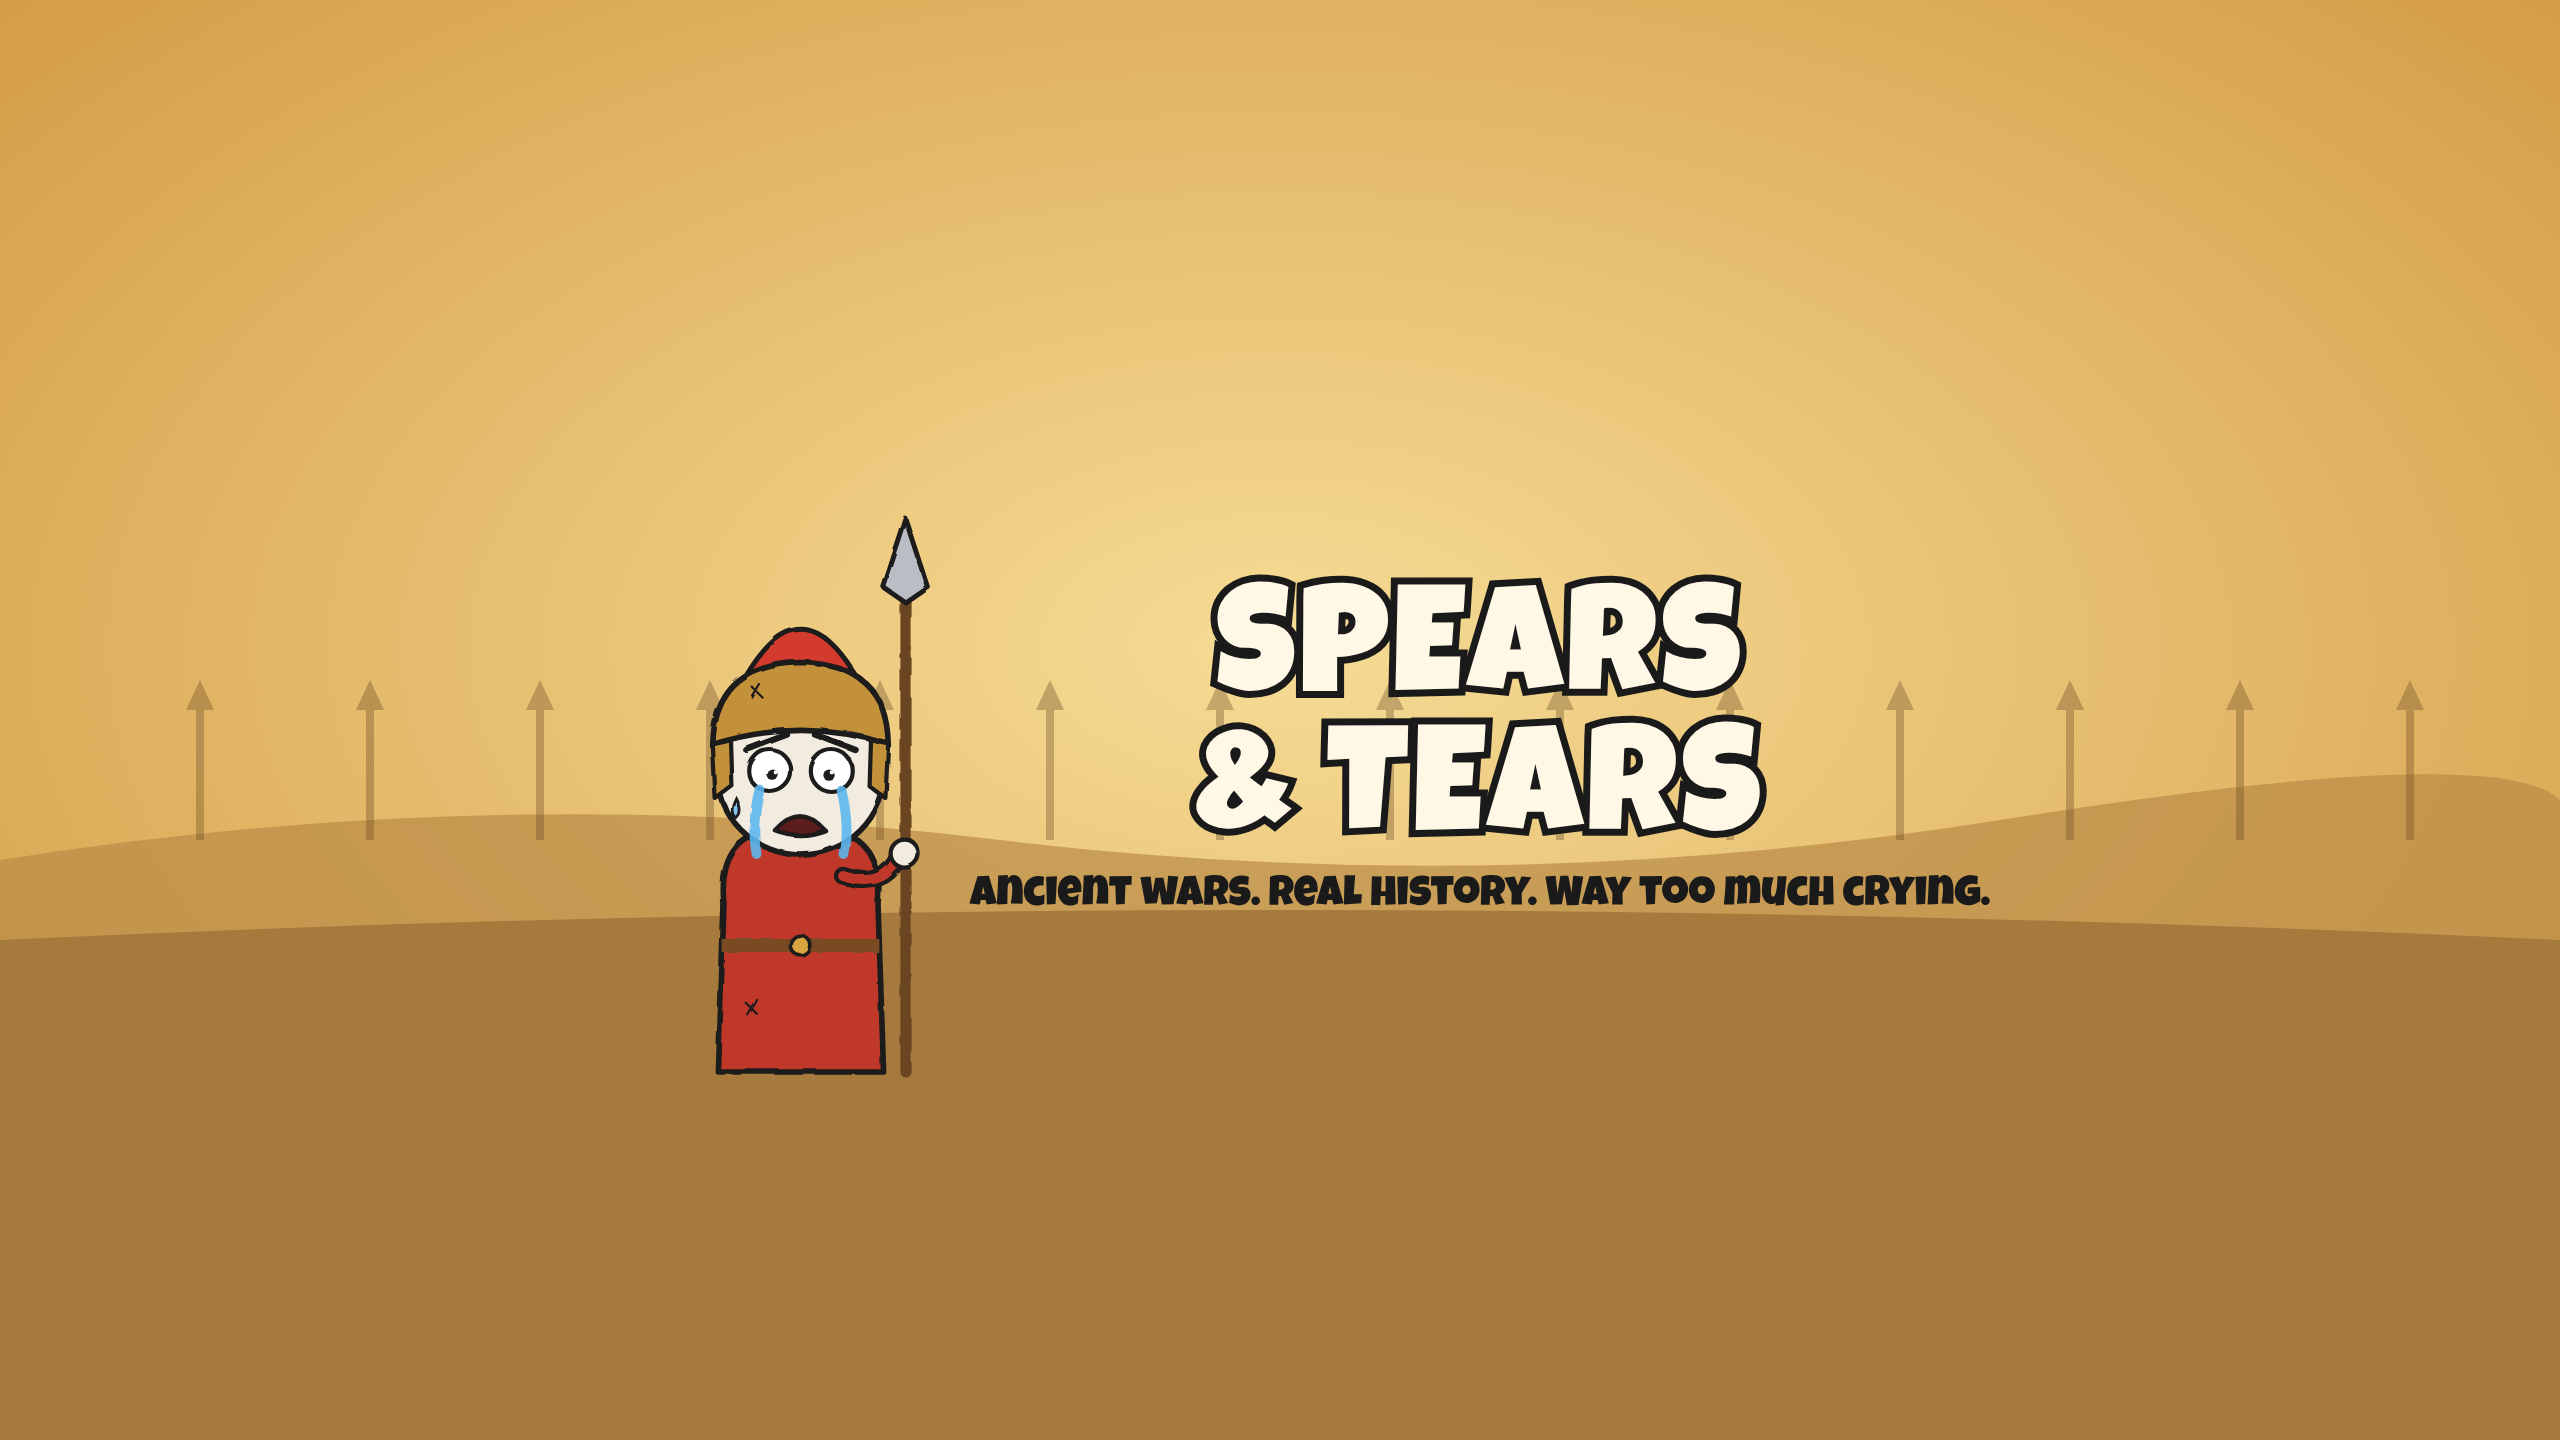
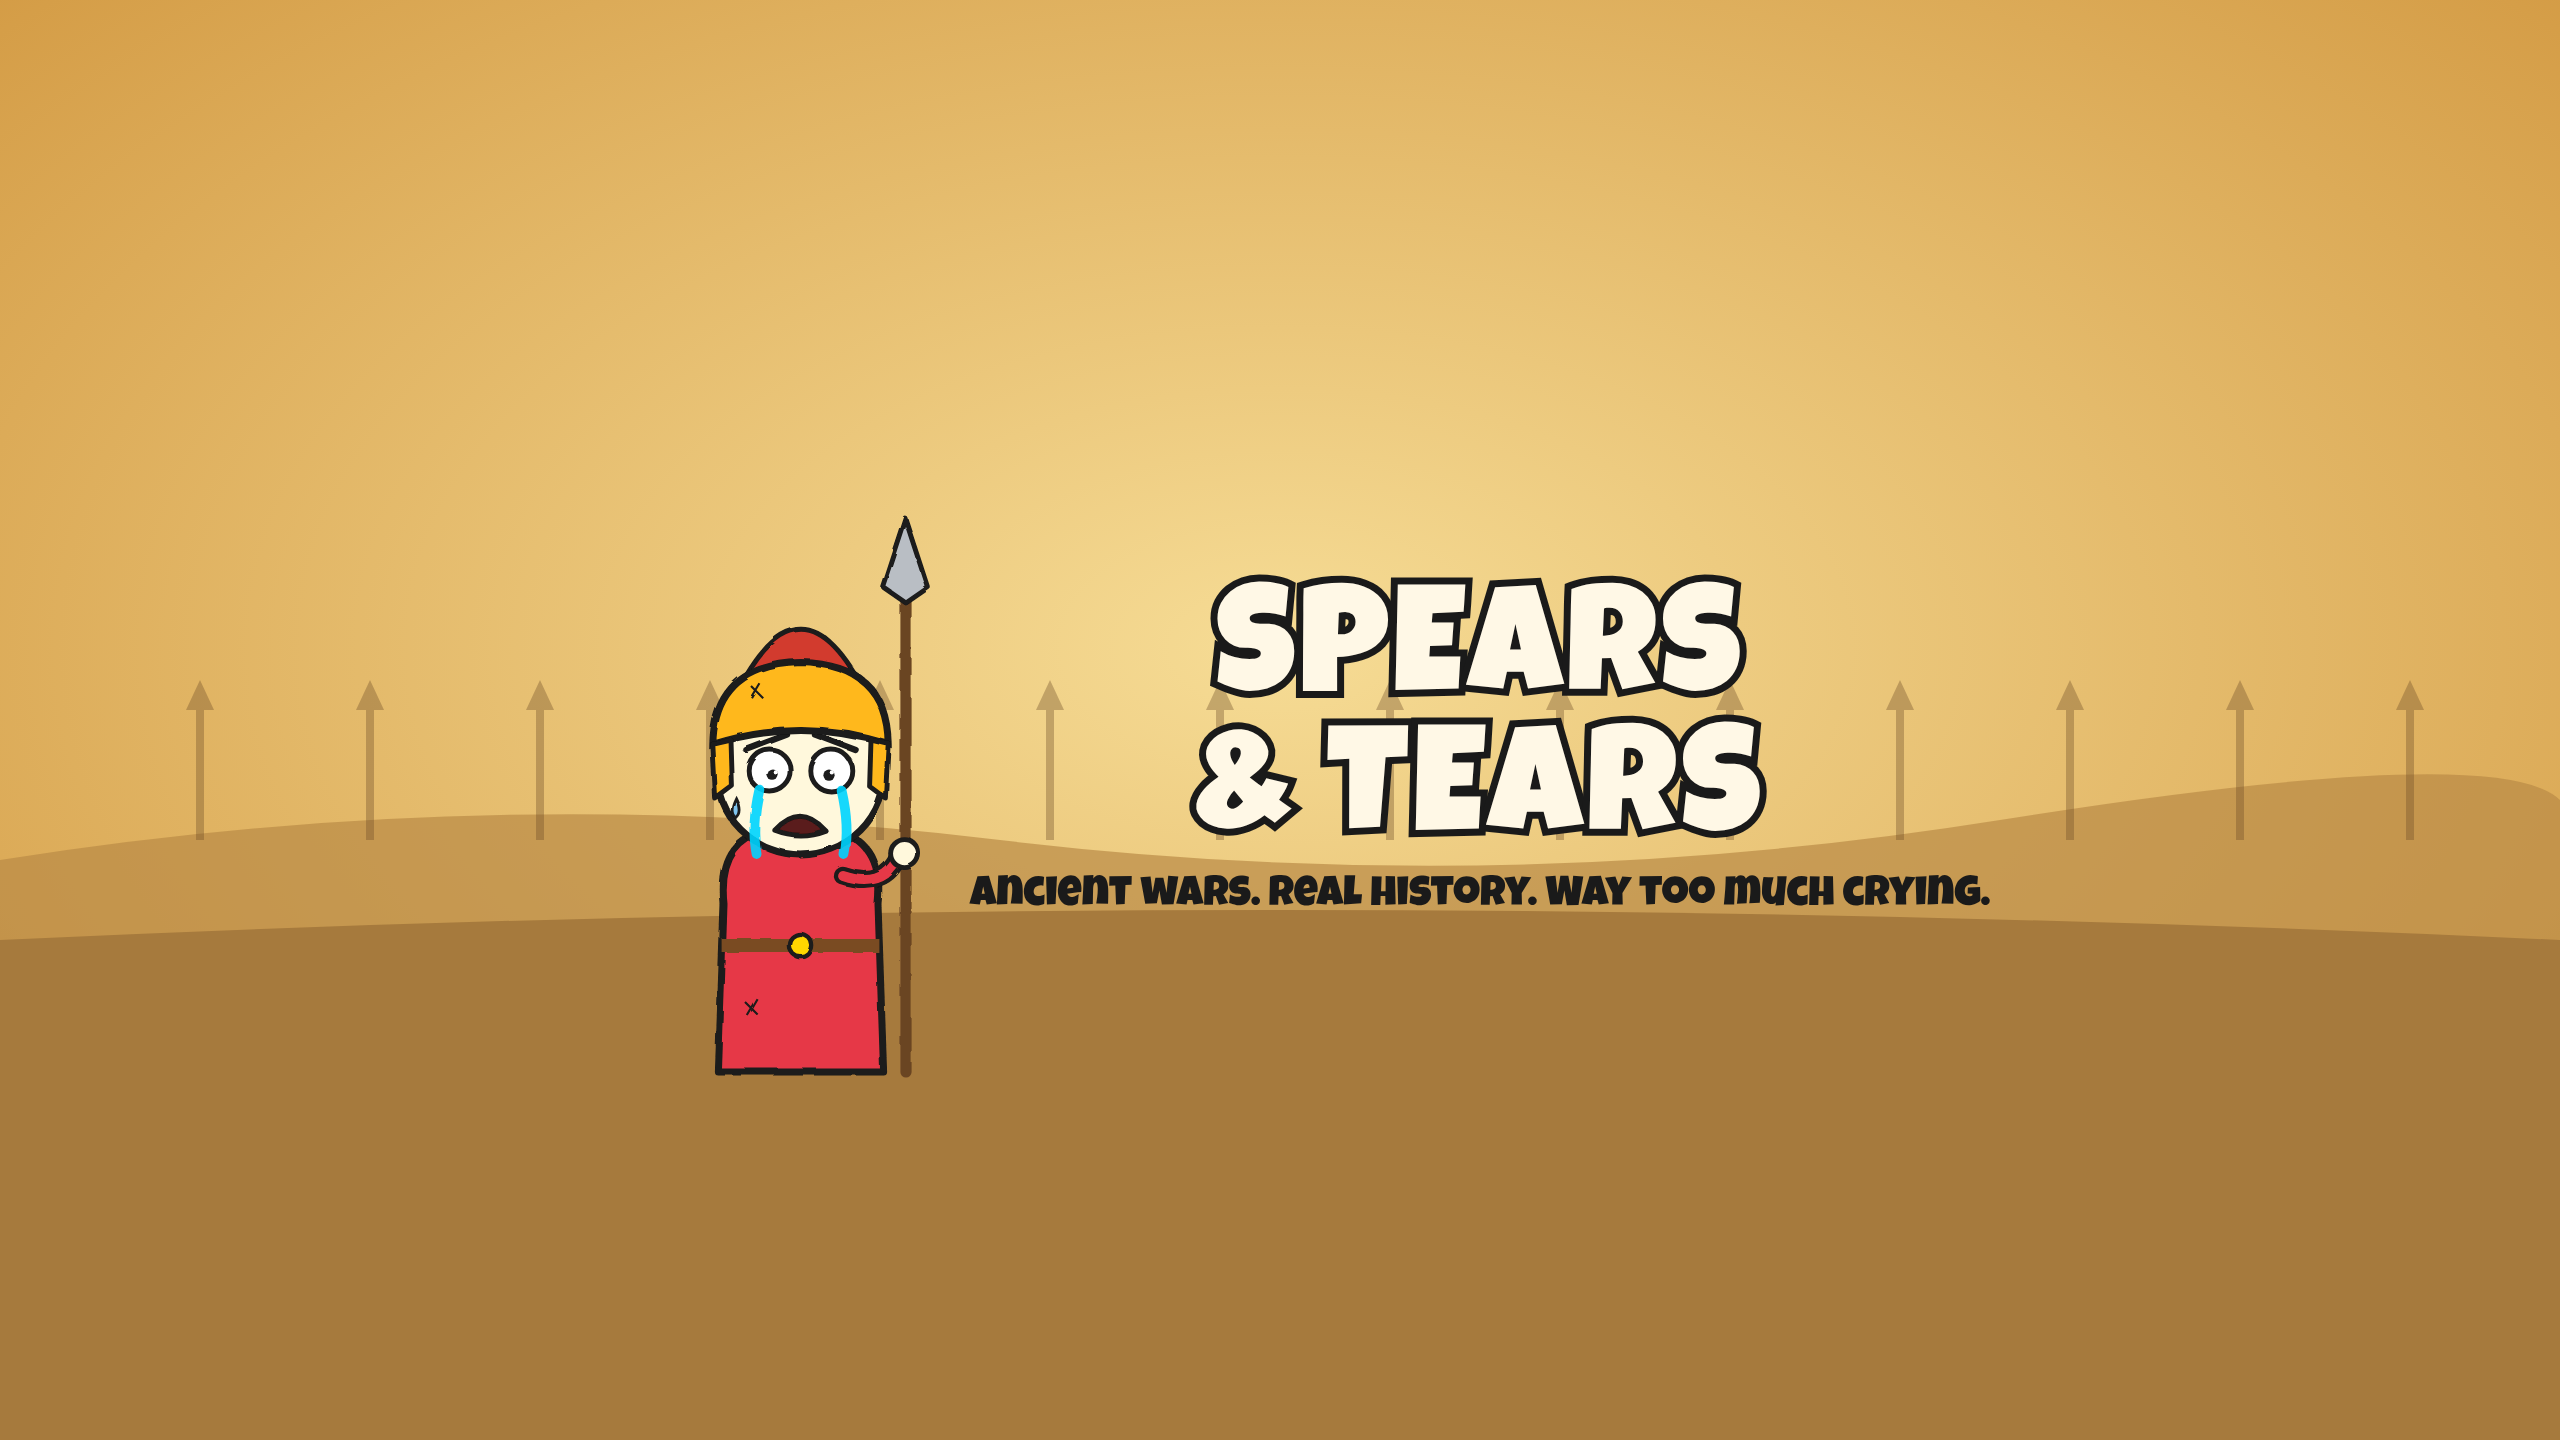
Commit updated production plan based on Hussain Ahn analysis
Major changes:
- Video length: 9min → 22min (follow proven format)
- Color palette: bold & vibrant (increased saturation)
- Map: living element, not just one scene
- Character depth: repeated appearances, exaggerated expressions
- Timeline: 1-2 weeks for episode 1

Claude-Session: https://claude.ai/code/session_01DuWpjDCBeYCSni9ZgYZmE6

Changed region(s): [[0.2812, 0.4375, 0.3438, 0.75]]

diff --git a/UPDATED_PLAN.md b/UPDATED_PLAN.md
@@ -1,0 +1,59 @@
+# ✅ Spears & Tears — Updated Production Plan
+
+بناءً على دراسة قناة @HussainAHN الناجحة (3.19M subscribers)
+
+## التعديلات الرئيسية:
+
+### 1⃣ **مدة الفيديو**
+- ❌ القديم: 9–11 دقيقة
+- ✅ الجديد: **20–25 دقيقة**
+- **السبب:** الفيديوهات الطويلة تحصل على مشاهدات أكثر والخوارزمية تفضلها
+
+### 2⃣ **الألوان والتصميم**
+- ✅ تحديث شامل للألوان
+  - أحمر: من `#C0392B` إلى `#E63946` (أكثر إشراقًا)
+  - برونز: من `#C4913A` إلى `#FFB81C` (ذهبي متوهج)
+  - أرجواني: من `#6B3F8F` إلى `#9D4EDD` (أكثر جرأة)
+  - الدموع: من `#5DB7EE` إلى `#00D4FF` (سماوي مشرق)
+- ✅ سمك الخطوط: من 8px إلى 10px (أكثر وضوحًا)
+- ✅ إضافة تفاصيل ذهبية (حزام الجندي، إلخ)
+
+### 3⃣ **الخريطة في كل فيديو**
+- ❌ القديم: خريطة تظهر مشهد واحد
+- ✅ الجديد: **خريطة حية تتحرك طول الفيديو**
+  - تظهر تطور المعركة خطوة بخطوة
+  - ألوان ساطعة مثل Hussain Ahn
+  - تحديثات مستمرة على الخريطة
+
+### 4⃣ **الشخصيات والفكاهة**
+- ✅ Sobius يظهر بشكل متكرر (ليس مرة واحدة)
+- ✅ تعابير مبالغ فيها جدًا (أكثر من الآن)
+- ✅ نفس الشخصيات تعود في كل حلقة (مثل الراوي الساخر)
+
+## الجدول الزمني:
+
+| المرحلة | الوقت |
+|---|---|
+| **توليد الأصوات** (أنت في ElevenLabs) | 1–2 يوم |
+| **رسم الشخصيات الإضافية** (أنا) | 2–3 أيام |
+| **رسم الخرائط المتحركة** (أنا) | 2–3 أيام |
+| **تركيب الفيديو الكامل** (أنا) | 1–2 يوم |
+| **مراجعة وتصحيحات** | 1 يوم |
+| **النشر على YouTube** (أنت) | مباشر |
+
+**الإجمالي: 1–2 أسبوع لأول حلقة**
+
+## الخطوة التالية:
+
+1. **أنت:** سجّل الأصوات الستة في ElevenLabs (NARRATOR_part1, NARRATOR_part2, SOBIUS, HANNIBAL, VARRO, ELDER)
+   - تحميل MP3 لكل واحد
+
+2. **أنا:** أبدأ برسم الشخصيات والخرائط
+
+3. **عندما تصل الأصوات:** أركّب الحلقة بالكامل
+
+## الهدف:
+
+- ✅ أول حلقة: 20–25 دقيقة
+- ✅ جودة مماثلة لـ Hussain Ahn (لكن حروب قديمة)
+- ✅ الهدف: 5+ ملايين مشاهدة في السنة الأولى
